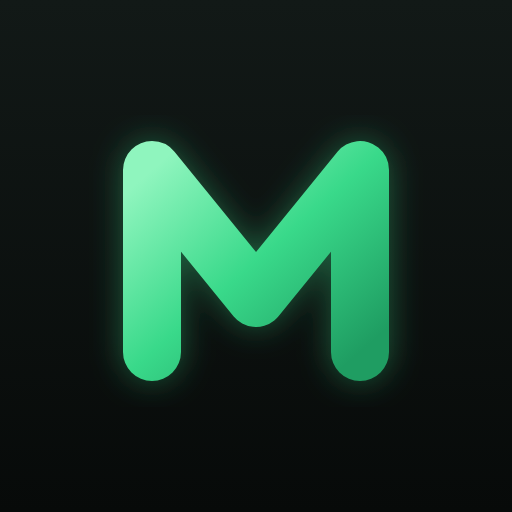
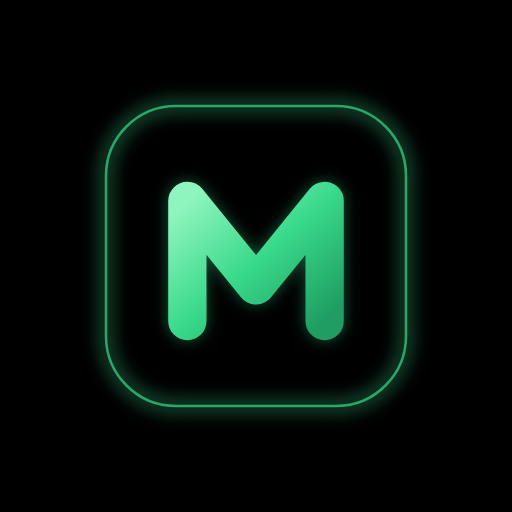
v2.4: ปรับไอคอนแอพ: M เล็กลง พื้นดำสนิท มีแสงเขียวเรืองรอบขอบ
- พื้นหลังเป็นสีดำสนิท #000 (เดิมไล่สีเทาเข้ม ทำให้เห็นเป็นกล่อง) กลืนกับวอลเปเปอร์ดำ
- ตัว M เล็กลง และวางกรอบมนที่มีแสงเขียวเรืองรอบขอบแบบเดียวกับโลโก้ในแอพ
- คำนวณตามที่มือถือครอปไอคอนเหลือประมาณ 64% ตรงกลาง ให้กรอบแสงและตัว M อยู่ในส่วนที่มองเห็นจริง
- ต้นฉบับ icon.svg · PNG 192/512 สร้างใหม่

Claude-Session: https://claude.ai/code/session_01C2wS7NNPrkVhQf5fYeCgCQ

Changed region(s): [[0.1875, 0.2188, 0.8125, 0.8125], [0.0, 0.0, 1.0, 0.0625], [0.2812, 0.1875, 0.7188, 0.2188]]

diff --git a/sub/app.js b/sub/app.js
@@ -1,17 +1,17 @@
-import { alignLinesToWords, refineSegmentBoundariesWithEnergy } from './aligner.js?v=2.3';
-import { buildSrt } from './srt.js?v=2.3';
-import { callGroqWhisper, buildTranscriptForGemini, callGeminiSplit, removeThaiSpaces, GEMINI_MODELS, DEFAULT_GEMINI_MODEL } from './ai.js?v=2.3';
-import { loadMediabunny, decodeAudioFile, isVideoFile, extractAudioFromVideo, audioBufferToWavBlob } from './media.js?v=2.3';
-import { CANVAS_W, FONT_FAMILY, BOTTOM_MARGIN_RATIO, renderVideo } from './render.js?v=2.3';
-import { createTrimEditor } from './waveform.js?v=2.3';
-import { setupFineSlider, createStagedProgress, escapeHtml, getReliableDuration } from './ui.js?v=2.3';
-import { setupVoicePicker } from './voicepick.js?v=2.3';
+import { alignLinesToWords, refineSegmentBoundariesWithEnergy } from './aligner.js?v=2.4';
+import { buildSrt } from './srt.js?v=2.4';
+import { callGroqWhisper, buildTranscriptForGemini, callGeminiSplit, removeThaiSpaces, GEMINI_MODELS, DEFAULT_GEMINI_MODEL } from './ai.js?v=2.4';
+import { loadMediabunny, decodeAudioFile, isVideoFile, extractAudioFromVideo, audioBufferToWavBlob } from './media.js?v=2.4';
+import { CANVAS_W, FONT_FAMILY, BOTTOM_MARGIN_RATIO, renderVideo } from './render.js?v=2.4';
+import { createTrimEditor } from './waveform.js?v=2.4';
+import { setupFineSlider, createStagedProgress, escapeHtml, getReliableDuration } from './ui.js?v=2.4';
+import { setupVoicePicker } from './voicepick.js?v=2.4';
 
 // ===== ที่เก็บข้อมูลร่วมกับแอพหลัก (MWStore จาก ../store.js) — service worker ของแอพหลักคุมหน้านี้อยู่แล้ว =====
   const S = window.MWStore;
   await S.ready;
   // สคริปต์ของแอพหลักที่หน้านี้ยืมใช้ — โหลดหลังข้อมูลพร้อม ถ้าโหลดไม่ได้ก็ใช้ต่อได้ (budget = เพดานค่า AI ตอนถอยไป OpenRouter · r2 + voicestore = เสียงที่เจนไว้)
-  for (const src of ['../budget.js?v=2.3', '../r2.js?v=2.3', '../voicestore.js?v=2.3']) {
+  for (const src of ['../budget.js?v=2.4', '../r2.js?v=2.4', '../voicestore.js?v=2.4']) {
     await new Promise((ok) => { const el = document.createElement('script'); el.src = src; el.onload = el.onerror = ok; document.body.appendChild(el); });
   }
   const GROQ_KEY = 'mw_groq_key_v1', GEMINI_KEY = 'mw_gemini_key_v1', OR_KEY = 'mw_openrouter_key_v1', SUB_CFG = 'mw_sub_cfg_v1'; // key ตั้งที่แอพหลัก > ตั้งค่า

diff --git a/footage.html b/footage.html
@@ -10,7 +10,7 @@
 <link rel="preconnect" href="https://fonts.googleapis.com">
 <link rel="preconnect" href="https://fonts.gstatic.com" crossorigin>
 <link href="https://fonts.googleapis.com/css2?family=IBM+Plex+Sans+Thai:wght@400;500;600&family=Mitr:wght@500&display=swap" rel="stylesheet">
-<link rel="stylesheet" href="footage.css?v=2.3">
+<link rel="stylesheet" href="footage.css?v=2.4">
 </head>
 <body>
 <header>
@@ -232,6 +232,6 @@
 <input id="pickDocs" type="file" multiple hidden><!-- ไม่ใส่ accept → Android เปิดแอพไฟล์ (เข้าโฟลเดอร์ + เลือกทั้งหมดได้) แทนตัวเลือกรูป -->
 <video id="vid" muted playsinline preload="auto" style="position:fixed;left:-9999px;width:2px;height:2px"></video>
 
-<script src="store.js?v=2.3" data-boot="icons.js?v=2.3 dialog.js?v=2.3 budget.js?v=2.3 footage-core.js?v=2.3 r2.js?v=2.3 footage.js?v=2.3 footage-find.js?v=2.3 footage-dup.js?v=2.3 footage-audit.js?v=2.3 footage-cloud.js?v=2.3 mp4fix.js?v=2.3 footage-stitch.js?v=2.3 voicestore.js?v=2.3 footage-plan.js?v=2.3 gdrive.js?v=2.3"></script>
+<script src="store.js?v=2.4" data-boot="icons.js?v=2.4 dialog.js?v=2.4 budget.js?v=2.4 footage-core.js?v=2.4 r2.js?v=2.4 footage.js?v=2.4 footage-find.js?v=2.4 footage-dup.js?v=2.4 footage-audit.js?v=2.4 footage-cloud.js?v=2.4 mp4fix.js?v=2.4 footage-stitch.js?v=2.4 voicestore.js?v=2.4 footage-plan.js?v=2.4 gdrive.js?v=2.4"></script>
 </body>
 </html>

diff --git a/sub/waveform.js b/sub/waveform.js
@@ -1,7 +1,7 @@
 // waveform.js — กล่องตัดท่อนเสียง: วาดคลื่นเสียง ซูม/บีบนิ้ว แบ่ง/ลบท่อน (ลบแล้วเสียงที่เหลือต่อกันแบบ CapCut) เลิกทำ/ทำซ้ำ
 // แยกออกจาก app.js (v1.16) · state ทั้งหมดของคลื่นเสียงอยู่ในนี้ที่เดียว app.js คุยผ่านค่าที่ createTrimEditor คืนให้
 // audioEl = <audio> ตัวเดียวกับที่ app.js ใช้ (เล่น/กรอ) · trimCard = <details> กล่องตัดท่อนเสียง
-import { computePeaks, buildTrimmedAudioBuffer, audioBufferToWavBlob } from './media.js?v=2.3';
+import { computePeaks, buildTrimmedAudioBuffer, audioBufferToWavBlob } from './media.js?v=2.4';
 
 export function createTrimEditor({ audioEl, trimCard }){
   const waveformScroll = document.getElementById('waveformScroll');

diff --git a/index.html b/index.html
@@ -15,8 +15,8 @@
 <link rel="preconnect" href="https://fonts.googleapis.com">
 <link rel="preconnect" href="https://fonts.gstatic.com" crossorigin>
 <link href="https://fonts.googleapis.com/css2?family=IBM+Plex+Sans+Thai:wght@400;500;600&family=Mitr:wght@500&display=swap" rel="stylesheet">
-<link rel="stylesheet" href="style.css?v=2.3">
-<link rel="stylesheet" href="sheet.css?v=2.3">
+<link rel="stylesheet" href="style.css?v=2.4">
+<link rel="stylesheet" href="sheet.css?v=2.4">
 </head>
 <body>
 <div class="wrap">
@@ -400,6 +400,6 @@
   </div>
 </div>
 
-<script src="store.js?v=2.3" data-boot="version.js?v=2.3 icons.js?v=2.3 dialog.js?v=2.3 budget.js?v=2.3 sync.js?v=2.3 app.js?v=2.3 llm.js?v=2.3 ai.js?v=2.3 r2.js?v=2.3 voicestore.js?v=2.3 tts.js?v=2.3 gdrive.js?v=2.3"></script>
+<script src="store.js?v=2.4" data-boot="version.js?v=2.4 icons.js?v=2.4 dialog.js?v=2.4 budget.js?v=2.4 sync.js?v=2.4 app.js?v=2.4 llm.js?v=2.4 ai.js?v=2.4 r2.js?v=2.4 voicestore.js?v=2.4 tts.js?v=2.4 gdrive.js?v=2.4"></script>
 </body>
 </html>

diff --git a/sub/voicepick.js b/sub/voicepick.js
@@ -1,7 +1,7 @@
 // voicepick.js — เลือกเสียงที่เจนไว้ในแอพหลัก (MWVoice ในเครื่อง + คลัง R2 ที่ยังไม่ได้ดึงมา) แยกออกจาก app.js (v1.16)
 // ทางเข้า 2 ทาง: ปุ่ม "เลือกจากเสียงที่เจนไว้ในแอพ" และลิงก์ ?voice=รหัส จากปุ่ม "ทำซับ" ในแท็บเสียงของแอพหลัก
 // loadAudioFile = ตัวเดียวกับตอนแนบไฟล์ (app.js) · rawScriptInput = ช่องสคริปต์ดิบ · fileInfo = กล่องชื่อไฟล์
-import { escapeHtml } from './ui.js?v=2.3';
+import { escapeHtml } from './ui.js?v=2.4';
 
 export function setupVoicePicker({ loadAudioFile, rawScriptInput, fileInfo }){
   const pickVoiceBtn = document.getElementById('pickVoiceBtn');

diff --git a/sub/media.js b/sub/media.js
@@ -1,6 +1,6 @@
 // media.js — ถอดรหัส/ตัด/แปลงเสียง และโหลดไลบรารี mediabunny
 
-const MEDIABUNNY_URL = './vendor/mediabunny.min.js?v=2.3'; // mediabunny 1.54.0 เก็บไว้ในโปรเจกต์ (ไม่ต้องพึ่งอินเทอร์เน็ตตอนเรนเดอร์)
+const MEDIABUNNY_URL = './vendor/mediabunny.min.js?v=2.4'; // mediabunny 1.54.0 เก็บไว้ในโปรเจกต์ (ไม่ต้องพึ่งอินเทอร์เน็ตตอนเรนเดอร์)
 let mediabunnyModulePromise = null;
 export function loadMediabunny(){
   if (!mediabunnyModulePromise) mediabunnyModulePromise = import(MEDIABUNNY_URL);

diff --git a/sub/index.html b/sub/index.html
@@ -19,7 +19,7 @@
 <link rel="preconnect" href="https://fonts.googleapis.com">
 <link rel="preconnect" href="https://fonts.gstatic.com" crossorigin>
 <link href="https://fonts.googleapis.com/css2?family=Kanit:wght@400;500;700&display=swap" rel="stylesheet">
-<link rel="stylesheet" href="style.css?v=2.3">
+<link rel="stylesheet" href="style.css?v=2.4">
 </head>
 
 <body>
@@ -284,7 +284,7 @@
   </div>
 </div>
 
-<script src="../store.js?v=2.3"></script>
-<script type="module" src="app.js?v=2.3"></script>
+<script src="../store.js?v=2.4"></script>
+<script type="module" src="app.js?v=2.4"></script>
 </body>
 </html>

diff --git a/version.js b/version.js
@@ -2,7 +2,7 @@
    แก้ด้วย `node bump-version.mjs X.Y` เท่านั้น (บวก ?v= ของทุกไฟล์ให้ตรงกันด้วย) · ไม่ต้องแสดงเลขรุ่นที่อื่นอีก */
 (function(){
   "use strict";
-  var VERSION = "2.3";
+  var VERSION = "2.4";
   var el = document.getElementById("appVersion");
   if(el) el.textContent = "Meowrin factory v" + VERSION;
 })();

diff --git a/CLAUDE.md b/CLAUDE.md
@@ -25,7 +25,7 @@
 - `llm.js` ชั้นเรียก AI (`MW.llm.call`): Gemini API ตรง (ฟรี, `generateContent`) ใช้เฉพาะคำขอที่ผู้เรียกใส่ `opt.free` (งานเล็ก ข้อความล้วน เช่น แก้บท) + โมเดล Google + มี key + เปิดติ๊ก "ใช้ Gemini ฟรี (งานเล็ก)" (`cfg.gem`) · ดูวิดีโอ/เขียนบทหลักใช้ OpenRouter เสมอ (ทดสอบแล้ว Gemini ฟรีกับวิดีโอช้า/ล่มบ่อย) · โควตาเต็ม/key ผิด/ล่ม/ช้าเกิน 90 วิ → ถอยไป OpenRouter อัตโนมัติ · `#spendInfo` โชว์ยอดจริงจาก OpenRouter (`GET /api/v1/key`: วันนี้/สัปดาห์/เดือน UTC รวมทุกการใช้ key) ถ้าดึงไม่ได้ใช้ยอดที่แอพนับเอง (`mw_cost_v1`) — โหลดหลัง app.js ก่อน ai.js
 - `ai.js` ทำบท/ประวัติ/prompt (เรียก AI ผ่าน `callAI` → `MW.llm.call`) — โหลดหลัง llm.js
 - `tts.js` สร้างเสียงจากบทด้วย ElevenLabs (ฟัง/แชร์/ดาวน์โหลด) — โหลดหลัง ai.js อ่านบทจาก `#vText` และฟัง event `mw:script` · ชีตตั้งค่าเสียง `#vSheet`
-- `manifest.json`, `sw.js` PWA (sw เป็น passthrough ห้ามแคช API) · ชื่อแอพ "Meowrin factory" (M ตัวใหญ่ factory ตัวเล็ก) · ไอคอนแอพ = ตัว M เขียวเรืองแสงบนพื้นดำเต็มกรอบ (ให้กลืนกับวอลเปเปอร์ ไม่ให้คล้าย Gmail) ต้นฉบับ `icon.svg` → สร้าง `icon-192.png`/`icon-512.png` ด้วย `node tools/render-icons.mjs` (ไฟล์ PNG ต้องอยู่ใน manifest เพราะ Android รับ PNG เสถียรกว่า SVG) · มือถือจำไอคอนตอนติดตั้ง เปลี่ยนไฟล์แล้วอาจไม่เปลี่ยนทันที ต้องให้ Han ลบไอคอนแล้วเพิ่มใหม่ · แถบหัวหน้าหลัก: โลโก้ M (SVG ใน index.html) + ชื่อบรรทัดเดียว ไม่มีบรรทัดคำอธิบาย · ปุ่มย้อนกลับของหน้าฟุตเทจ/ซับเป็นปุ่มสี่เหลี่ยมมุมโค้งใส่ลูกศร (`a.back` + ไอคอน `back`)
+- `manifest.json`, `sw.js` PWA (sw เป็น passthrough ห้ามแคช API) · ชื่อแอพ "Meowrin factory" (M ตัวใหญ่ factory ตัวเล็ก) · ไอคอนแอพ = ตัว M เขียวเล็กๆ กลางกรอบมนที่มีแสงเขียวเรืองรอบขอบ บนพื้นดำสนิท `#000` เต็มภาพ (กลืนกับวอลเปเปอร์ดำของ Han ไม่ให้คล้าย Gmail) · **มือถือครอปไอคอนเหลือแค่ตรงกลางประมาณ 64% ของภาพ** (ที่ Han เห็นบนหน้าจอ) เนื้อหาสำคัญต้องอยู่ในกรอบกลางนั้น ตัว M กับกรอบแสงจึงเล็กกว่าเต็มภาพมาก ต้นฉบับ `icon.svg` → สร้าง `icon-192.png`/`icon-512.png` ด้วย `node tools/render-icons.mjs` (ไฟล์ PNG ต้องอยู่ใน manifest เพราะ Android รับ PNG เสถียรกว่า SVG) · มือถือจำไอคอนตอนติดตั้ง เปลี่ยนไฟล์แล้วอาจไม่เปลี่ยนทันที ต้องให้ Han ลบไอคอนแล้วเพิ่มใหม่ · แถบหัวหน้าหลัก: โลโก้ M (SVG ใน index.html) + ชื่อบรรทัดเดียว ไม่มีบรรทัดคำอธิบาย · ปุ่มย้อนกลับของหน้าฟุตเทจ/ซับเป็นปุ่มสี่เหลี่ยมมุมโค้งใส่ลูกศร (`a.back` + ไอคอน `back`)
 - หน้าแยก `footage.html` (คลังฟุตเทจ + ผู้กำกับ AI, เปิดที่ /footage.html) แท็บ: **คลัง | อัปโหลด | ผู้กำกับ | ตั้งค่า** (รื้อเมื่อ 2026-10-16: ตัดโหมดเลือกฉาก/ถาด/ปุ่มแชร์/ตัวเลือก AI ในค้นหา/เปลี่ยนชื่ออัลบั้ม/ปุ่มคลิปซ้ำ/debug ออกแล้ว อย่าเพิ่มกลับโดยไม่ถาม Han)
   - `footage-core.js` (`window.FT`): ตั้งค่า, IndexedDB, อ่านเฟรมจาก `<video>` ทุก 1 วิ หาจุดตัดฉาก, `describe` ส่งรูปหลายฉากต่อคำขอไป OpenRouter ตอบ JSON · **ดัชนีรุ่น 2 (`AI_V`, ละเอียด)**: ต่อฉากส่งรูปเดียวที่เรียงเฟรมต้น/กลาง/ท้าย 1-3 เฟรม (`strip`, กว้าง 320/เฟรม ไม่เก็บลงฐานข้อมูล) + ป้ายเพิ่ม `shot` (close/medium/wide) `intensity` 1-5 `motion` `mood` `arc` `event` `issues` (watermark/subtitles/blurry/text/black) · `deepFrames(v, src, rec)` จับเฟรมใหม่ตามช่วงฉากเดิม src = File หรือลิงก์คลัง (สตรีมเฉพาะช่วง, `crossOrigin` anonymous) · ผู้กำกับ: `beats(script, mode)` แบ่งบทเป็นช็อต (long = ช็อตละประโยค, fast = วลีละ 1-3 วิ เอ่ยชื่อใครภาพต้องเป็นคนนั้น = สไตล์ช่อง) · `direct(script, items, prev)` ส่งรูปผู้สมัครของหลายช็อตให้ AI ดูภาพจริงแล้วเลือก best+alts
   - `footage.js` แท็บ อัปโหลด: ปุ่มแอพไฟล์ (`filesDocs` ไม่มี accept เลือกทั้งโฟลเดอร์ได้, อัลบั้ม Xiaomi = Pictures/Gallery/owner/<อัลบั้ม>, ตัดไฟล์ที่ไม่ใช่วิดีโอ) → คิวทำดัชนี/พัก/ทำต่อ/งบ/Wake Lock + อัปขึ้นคลังอัตโนมัติเมื่อตั้งค่าคลังไว้ (คลิปที่ทำแล้ว = อัปอย่างเดียว, รูปรุ่นเก่า = วาดใหม่ฟรี) · คลิปใหม่ได้ดัชนีรุ่น 2 เลย · แผง "ตรวจตัวละครซ้ำ" (`rcBtn`, `FT.recognize` + `ROSTER` 38 ตัวละครพร้อมลักษณะเด่น key ต้องตรง `NAMES`): ส่งรูป `sc.img` 480px ที่เก็บไว้ 12 ฉาก/คำขอ ถามเจาะจงว่ามีใครในรายชื่อ → `U.addChars` เติมเฉพาะที่ขาด (ไม่ลบ, ข้าม `ai.fixed`, ตั้ง `ai.rc=1`) บันทึกทุกรอบ หยุด/ทำต่อได้ ≈ $0.0012/ฉาก ไม่ต้องเปิดไฟล์วิดีโอ · แผง "ดัชนีละเอียด" ปุ่มอัปเกรดคลิปเก่า (`aiV`<2) เข้าคิวโหมด `deep` (`deepClip`: เฟรมจากไฟล์ในเครื่องหรือคลัง → `describeAll` ส่วน AI ที่ใช้ร่วมกับทำดัชนีใหม่ → ทับ `sc.ai` + `aiV`, ค่า AI ประมาณ 1.6× ของรุ่นเดิม) · ต้นทุน/เวลา · ตั้งค่า/สำรอง · รวมคลิปซ้ำเองตอนเปิดหน้า (ขนาด+ความยาวเท่ากัน ไม่ดูชื่อ เก็บตัวที่มี `r2`) · ส่ง `FT.ui` พื้นฐาน
